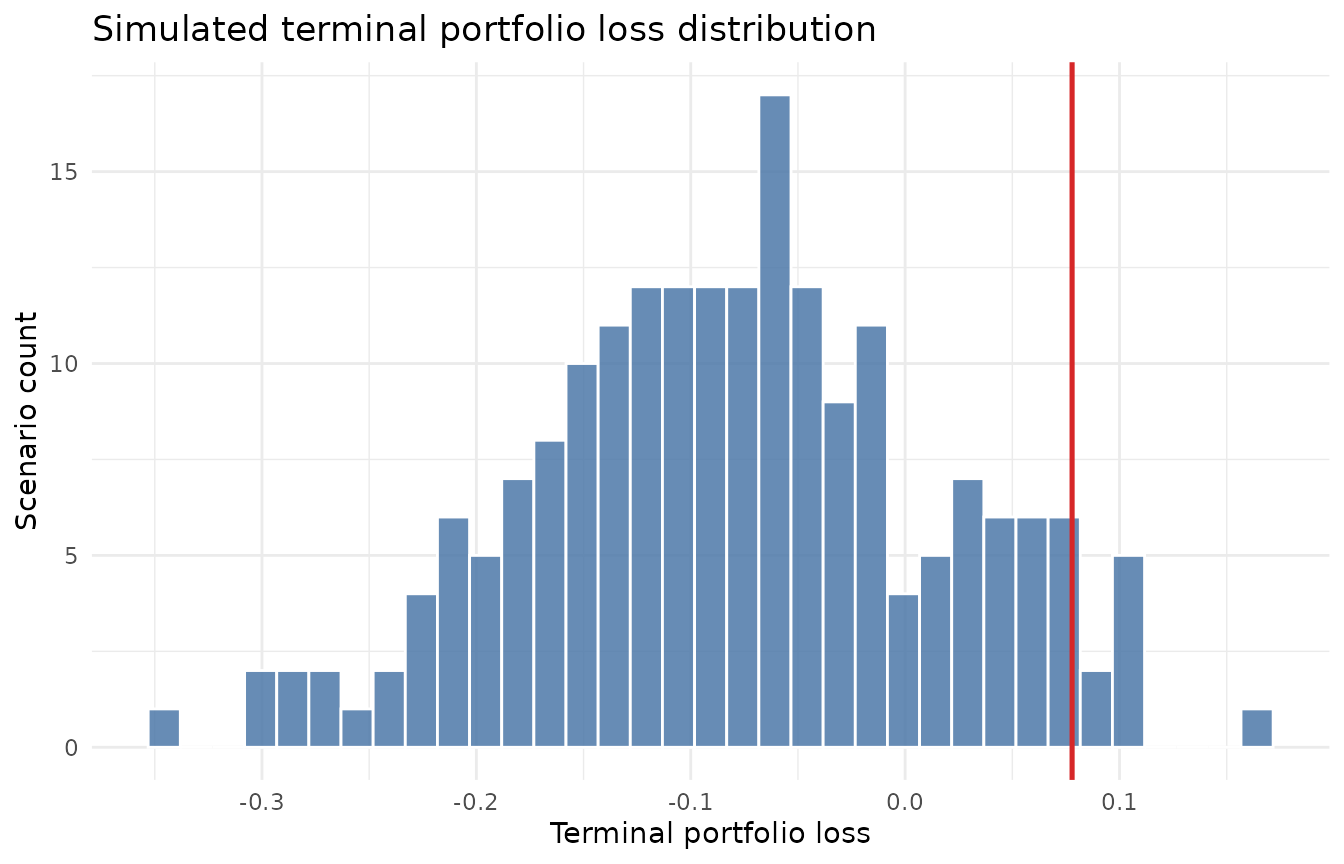
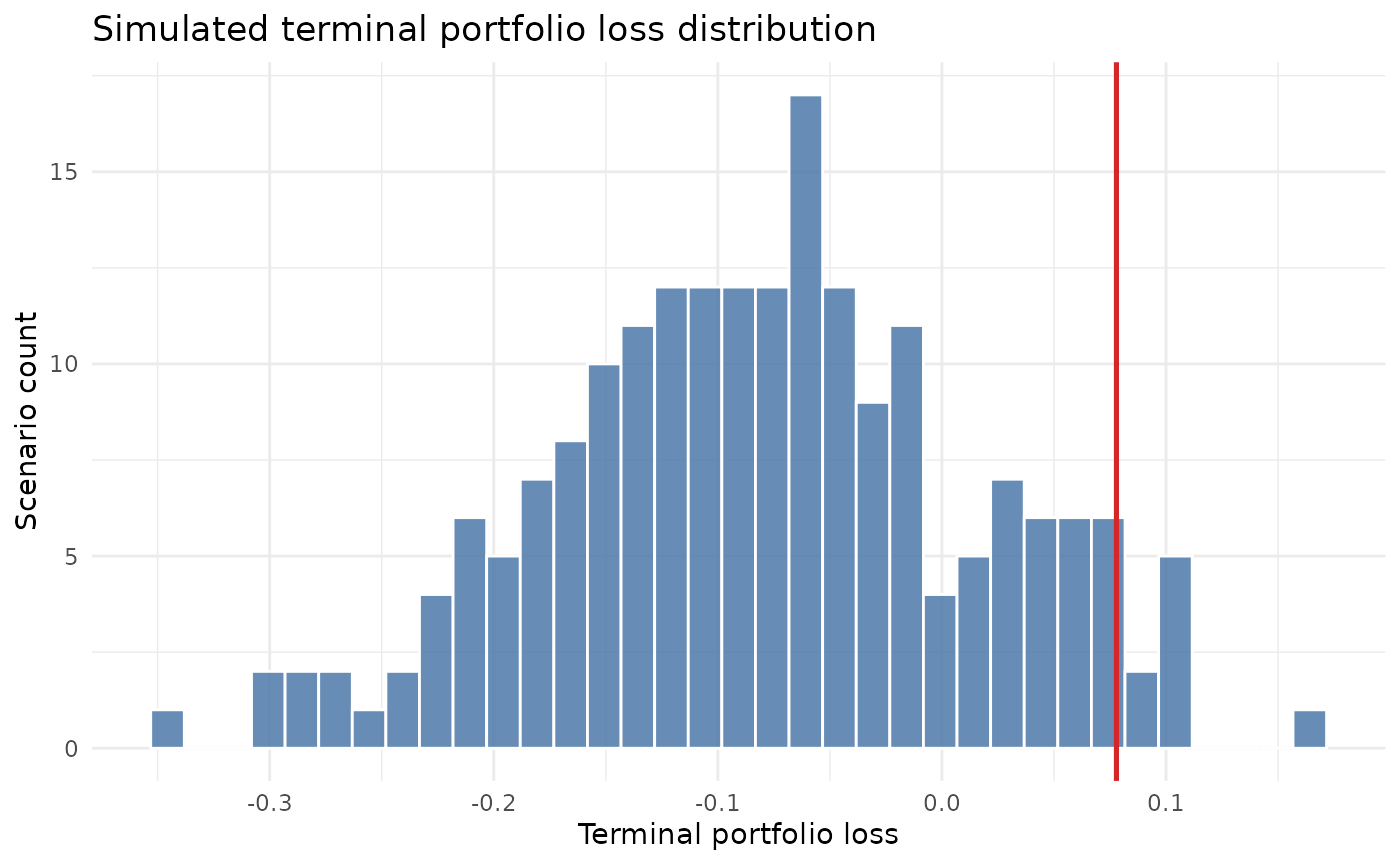
Deploying to gh-pages from @ qiyuan0215/scenario2risk@ad19e97039c35a2c992bc868272a370219786cac 🚀

diff --git a/articles/scenario2risk.html b/articles/scenario2risk.html
@@ -160,76 +160,21 @@ those three assets.</p>
 </ul>
 <p>Below is the structure of the built-in example data:</p>
 <div class="sourceCode" id="cb2"><pre class="downlit sourceCode r">
-<code class="sourceCode R"><span><span class="fu">knitr</span><span class="fu">::</span><span class="fu"><a href="https://rdrr.io/pkg/knitr/man/kable.html" class="external-link">kable</a></span><span class="op">(</span><span class="fu">utils</span><span class="fu">::</span><span class="fu"><a href="https://rdrr.io/r/utils/head.html" class="external-link">head</a></span><span class="op">(</span><span class="va">demo_macro_data</span>, <span class="fl">3</span><span class="op">)</span>, digits <span class="op">=</span> <span class="fl">4</span><span class="op">)</span></span></code></pre></div>
-<table class="table">
-<colgroup>
-<col width="8%">
-<col width="8%">
-<col width="10%">
-<col width="8%">
-<col width="6%">
-<col width="5%">
-<col width="8%">
-<col width="8%">
-<col width="8%">
-<col width="14%">
-<col width="11%">
-</colgroup>
-<thead><tr class="header">
-<th align="left">date</th>
-<th align="right">term_spread</th>
-<th align="right">credit_spread</th>
-<th align="right">gs10_change</th>
-<th align="right">infl_yoy</th>
-<th align="right">unrate</th>
-<th align="right">indpro_yoy</th>
-<th align="right">payroll_yoy</th>
-<th align="right">housing_yoy</th>
-<th align="right">consumer_sentiment</th>
-<th align="right">real_short_rate</th>
-</tr></thead>
-<tbody>
-<tr class="odd">
-<td align="left">1991-01-01</td>
-<td align="right">0.0187</td>
-<td align="right">0.0141</td>
-<td align="right">0.0001</td>
-<td align="right">0.0565</td>
-<td align="right">0.064</td>
-<td align="right">-0.0096</td>
-<td align="right">-0.0013</td>
-<td align="right">-0.4855</td>
-<td align="right">66.8</td>
-<td align="right">0.0057</td>
-</tr>
-<tr class="even">
-<td align="left">1991-02-01</td>
-<td align="right">0.0191</td>
-<td align="right">0.0124</td>
-<td align="right">-0.0024</td>
-<td align="right">0.0531</td>
-<td align="right">0.066</td>
-<td align="right">-0.0258</td>
-<td align="right">-0.0064</td>
-<td align="right">-0.3285</td>
-<td align="right">70.4</td>
-<td align="right">0.0063</td>
-</tr>
-<tr class="odd">
-<td align="left">1991-03-01</td>
-<td align="right">0.0220</td>
-<td align="right">0.0116</td>
-<td align="right">0.0026</td>
-<td align="right">0.0482</td>
-<td align="right">0.068</td>
-<td align="right">-0.0362</td>
-<td align="right">-0.0098</td>
-<td align="right">-0.2855</td>
-<td align="right">87.7</td>
-<td align="right">0.0109</td>
-</tr>
-</tbody>
-</table>
+<code class="sourceCode R"><span><span class="fu"><a href="https://rdrr.io/r/utils/head.html" class="external-link">head</a></span><span class="op">(</span><span class="va">demo_macro_data</span><span class="op">)</span></span>
+<span><span class="co">#&gt;         date term_spread credit_spread gs10_change   infl_yoy unrate</span></span>
+<span><span class="co">#&gt; 1 1991-01-01      0.0187        0.0141      0.0001 0.05647059  0.064</span></span>
+<span><span class="co">#&gt; 2 1991-02-01      0.0191        0.0124     -0.0024 0.05312500  0.066</span></span>
+<span><span class="co">#&gt; 3 1991-03-01      0.0220        0.0116      0.0026 0.04821151  0.068</span></span>
+<span><span class="co">#&gt; 4 1991-04-01      0.0239        0.0108     -0.0007 0.04809930  0.067</span></span>
+<span><span class="co">#&gt; 5 1991-05-01      0.0261        0.0100      0.0003 0.05034857  0.069</span></span>
+<span><span class="co">#&gt; 6 1991-06-01      0.0271        0.0095      0.0021 0.04695920  0.069</span></span>
+<span><span class="co">#&gt;     indpro_yoy  payroll_yoy housing_yoy consumer_sentiment real_short_rate</span></span>
+<span><span class="co">#&gt; 1 -0.009614606 -0.001263783  -0.4854932               66.8     0.005729412</span></span>
+<span><span class="co">#&gt; 2 -0.025779584 -0.006405570  -0.3284621               70.4     0.006275000</span></span>
+<span><span class="co">#&gt; 3 -0.036186959 -0.009777453  -0.2854926               87.7     0.010888491</span></span>
+<span><span class="co">#&gt; 4 -0.031105502 -0.012072141  -0.1979167               81.8     0.008400698</span></span>
+<span><span class="co">#&gt; 5 -0.024949781 -0.014340605  -0.1782178               78.3     0.004251433</span></span>
+<span><span class="co">#&gt; 6 -0.020371366 -0.013837051  -0.1197961               82.1     0.008740801</span></span></code></pre></div>
 </div>
 <div class="section level3">
 <h3 id="return_data">
@@ -245,35 +190,14 @@ those three assets.</p>
 <p>These returns should be aligned at the same monthly frequency as the
 macro predictors.</p>
 <div class="sourceCode" id="cb3"><pre class="downlit sourceCode r">
-<code class="sourceCode R"><span><span class="fu">knitr</span><span class="fu">::</span><span class="fu"><a href="https://rdrr.io/pkg/knitr/man/kable.html" class="external-link">kable</a></span><span class="op">(</span><span class="fu">utils</span><span class="fu">::</span><span class="fu"><a href="https://rdrr.io/r/utils/head.html" class="external-link">head</a></span><span class="op">(</span><span class="va">demo_return_data</span>, <span class="fl">3</span><span class="op">)</span>, digits <span class="op">=</span> <span class="fl">4</span><span class="op">)</span></span></code></pre></div>
-<table class="table">
-<thead><tr class="header">
-<th align="left">date</th>
-<th align="right">equity_return</th>
-<th align="right">bond_return</th>
-<th align="right">cash_return</th>
-</tr></thead>
-<tbody>
-<tr class="odd">
-<td align="left">1991-01-01</td>
-<td align="right">0.0521</td>
-<td align="right">-0.0148</td>
-<td align="right">0.0052</td>
-</tr>
-<tr class="even">
-<td align="left">1991-02-01</td>
-<td align="right">0.0767</td>
-<td align="right">-0.0062</td>
-<td align="right">0.0048</td>
-</tr>
-<tr class="odd">
-<td align="left">1991-03-01</td>
-<td align="right">0.0310</td>
-<td align="right">-0.0130</td>
-<td align="right">0.0044</td>
-</tr>
-</tbody>
-</table>
+<code class="sourceCode R"><span><span class="fu"><a href="https://rdrr.io/r/utils/head.html" class="external-link">head</a></span><span class="op">(</span><span class="va">demo_return_data</span><span class="op">)</span></span>
+<span><span class="co">#&gt;         date equity_return bond_return cash_return</span></span>
+<span><span class="co">#&gt; 1 1991-01-01        0.0521     -0.0148      0.0052</span></span>
+<span><span class="co">#&gt; 2 1991-02-01        0.0767     -0.0062      0.0048</span></span>
+<span><span class="co">#&gt; 3 1991-03-01        0.0310     -0.0130      0.0044</span></span>
+<span><span class="co">#&gt; 4 1991-04-01        0.0025      0.0149      0.0053</span></span>
+<span><span class="co">#&gt; 5 1991-05-01        0.0413     -0.0052      0.0047</span></span>
+<span><span class="co">#&gt; 6 1991-06-01       -0.0452      0.0108      0.0042</span></span></code></pre></div>
 </div>
 <div class="section level3">
 <h3 id="portfolio">
@@ -287,27 +211,11 @@ macro predictors.</p>
 <p>The package expects exactly the three supported asset names and a
 fully invested long-only portfolio.</p>
 <div class="sourceCode" id="cb4"><pre class="downlit sourceCode r">
-<code class="sourceCode R"><span><span class="fu">knitr</span><span class="fu">::</span><span class="fu"><a href="https://rdrr.io/pkg/knitr/man/kable.html" class="external-link">kable</a></span><span class="op">(</span><span class="va">demo_portfolio_weights</span>, digits <span class="op">=</span> <span class="fl">2</span><span class="op">)</span></span></code></pre></div>
-<table class="table">
-<thead><tr class="header">
-<th align="left">asset</th>
-<th align="right">weight</th>
-</tr></thead>
-<tbody>
-<tr class="odd">
-<td align="left">equity</td>
-<td align="right">0.55</td>
-</tr>
-<tr class="even">
-<td align="left">bond</td>
-<td align="right">0.35</td>
-</tr>
-<tr class="odd">
-<td align="left">cash</td>
-<td align="right">0.10</td>
-</tr>
-</tbody>
-</table>
+<code class="sourceCode R"><span><span class="va">demo_portfolio_weights</span></span>
+<span><span class="co">#&gt;    asset weight</span></span>
+<span><span class="co">#&gt; 1 equity   0.55</span></span>
+<span><span class="co">#&gt; 2   bond   0.35</span></span>
+<span><span class="co">#&gt; 3   cash   0.10</span></span></code></pre></div>
 </div>
 </div>
 <div class="section level2">
@@ -356,7 +264,7 @@ components.</li>
 <code>risk_summary</code>: a one-row table of risk metrics</li>
 <li>
 <code>loss_distribution</code>: one simulated terminal loss per
-scenari</li>
+scenario</li>
 </ul>
 <p>Printing the returned object only gives us a risk summary.</p>
 <p>The <code><a href="../reference/portfolio_risk.html">portfolio_risk()</a></code> summary contains:</p>
@@ -378,7 +286,8 @@ tail of the simulated loss distribution.</p>
 <p>We can also visualize the simulated loss distribution:</p>
 <div class="sourceCode" id="cb6"><pre class="downlit sourceCode r">
 <code class="sourceCode R"><span><span class="fu"><a href="../reference/plot_portfolio_risk.html">plot_portfolio_risk</a></span><span class="op">(</span><span class="va">risk</span><span class="op">)</span></span></code></pre></div>
-<p><img src="scenario2risk_files/figure-html/unnamed-chunk-6-1.png" class="r-plt" alt="" width="672"></p>
+<p align="center">
+<img src="../reference/figures/portfolio_risk.png" alt="Portfolio risk example plot" width="80%"></p>
 <p>In that plot, the histogram shows the simulated distribution of
 terminal portfolio loss, and the vertical red line marks the estimated
 95% VaR.</p>
@@ -432,7 +341,8 @@ benchmark</li>
 <p>We can visualize that comparison:</p>
 <div class="sourceCode" id="cb8"><pre class="downlit sourceCode r">
 <code class="sourceCode R"><span><span class="fu"><a href="../reference/plot_model_check.html">plot_model_check</a></span><span class="op">(</span><span class="va">check</span><span class="op">)</span></span></code></pre></div>
-<p><img src="scenario2risk_files/figure-html/unnamed-chunk-8-1.png" class="r-plt" alt="" width="672"></p>
+<p align="center">
+<img src="../reference/figures/VaR%20exceedance.png" alt="VaR exceedance example plot" width="80%"></p>
 <p>The dashed red line marks the expected 5% exceedance rate for a 95%
 VaR model.</p>
 </div>

diff --git a/articles/scenario2risk.md b/articles/scenario2risk.md
@@ -99,14 +99,22 @@ Below is the structure of the built-in example data:
 
 ``` r
 
-knitr::kable(utils::head(demo_macro_data, 3), digits = 4)
+head(demo_macro_data)
+#>         date term_spread credit_spread gs10_change   infl_yoy unrate
+#> 1 1991-01-01      0.0187        0.0141      0.0001 0.05647059  0.064
+#> 2 1991-02-01      0.0191        0.0124     -0.0024 0.05312500  0.066
+#> 3 1991-03-01      0.0220        0.0116      0.0026 0.04821151  0.068
+#> 4 1991-04-01      0.0239        0.0108     -0.0007 0.04809930  0.067
+#> 5 1991-05-01      0.0261        0.0100      0.0003 0.05034857  0.069
+#> 6 1991-06-01      0.0271        0.0095      0.0021 0.04695920  0.069
+#>     indpro_yoy  payroll_yoy housing_yoy consumer_sentiment real_short_rate
+#> 1 -0.009614606 -0.001263783  -0.4854932               66.8     0.005729412
+#> 2 -0.025779584 -0.006405570  -0.3284621               70.4     0.006275000
+#> 3 -0.036186959 -0.009777453  -0.2854926               87.7     0.010888491
+#> 4 -0.031105502 -0.012072141  -0.1979167               81.8     0.008400698
+#> 5 -0.024949781 -0.014340605  -0.1782178               78.3     0.004251433
+#> 6 -0.020371366 -0.013837051  -0.1197961               82.1     0.008740801
 ```
-
-| date | term_spread | credit_spread | gs10_change | infl_yoy | unrate | indpro_yoy | payroll_yoy | housing_yoy | consumer_sentiment | real_short_rate |
-|:---|---:|---:|---:|---:|---:|---:|---:|---:|---:|---:|
-| 1991-01-01 | 0.0187 | 0.0141 | 0.0001 | 0.0565 | 0.064 | -0.0096 | -0.0013 | -0.4855 | 66.8 | 0.0057 |
-| 1991-02-01 | 0.0191 | 0.0124 | -0.0024 | 0.0531 | 0.066 | -0.0258 | -0.0064 | -0.3285 | 70.4 | 0.0063 |
-| 1991-03-01 | 0.0220 | 0.0116 | 0.0026 | 0.0482 | 0.068 | -0.0362 | -0.0098 | -0.2855 | 87.7 | 0.0109 |
 
 ### `return_data`
 
@@ -122,14 +130,15 @@ macro predictors.
 
 ``` r
 
-knitr::kable(utils::head(demo_return_data, 3), digits = 4)
+head(demo_return_data)
+#>         date equity_return bond_return cash_return
+#> 1 1991-01-01        0.0521     -0.0148      0.0052
+#> 2 1991-02-01        0.0767     -0.0062      0.0048
+#> 3 1991-03-01        0.0310     -0.0130      0.0044
+#> 4 1991-04-01        0.0025      0.0149      0.0053
+#> 5 1991-05-01        0.0413     -0.0052      0.0047
+#> 6 1991-06-01       -0.0452      0.0108      0.0042
 ```
-
-| date       | equity_return | bond_return | cash_return |
-|:-----------|--------------:|------------:|------------:|
-| 1991-01-01 |        0.0521 |     -0.0148 |      0.0052 |
-| 1991-02-01 |        0.0767 |     -0.0062 |      0.0048 |
-| 1991-03-01 |        0.0310 |     -0.0130 |      0.0044 |
 
 ### `portfolio`
 
@@ -143,14 +152,12 @@ invested long-only portfolio.
 
 ``` r
 
-knitr::kable(demo_portfolio_weights, digits = 2)
+demo_portfolio_weights
+#>    asset weight
+#> 1 equity   0.55
+#> 2   bond   0.35
+#> 3   cash   0.10
 ```
-
-| asset  | weight |
-|:-------|-------:|
-| equity |   0.55 |
-| bond   |   0.35 |
-| cash   |   0.10 |
 
 ## Overall workflow
 
@@ -195,7 +202,7 @@ risk
 The returned object contains two main pieces:
 
 - `risk_summary`: a one-row table of risk metrics
-- `loss_distribution`: one simulated terminal loss per scenari
+- `loss_distribution`: one simulated terminal loss per scenario
 
 Printing the returned object only gives us a risk summary.
 
@@ -219,7 +226,7 @@ We can also visualize the simulated loss distribution:
 plot_portfolio_risk(risk)
 ```
 
-![](scenario2risk_files/figure-html/unnamed-chunk-6-1.png)
+![Portfolio risk example plot](../reference/figures/portfolio_risk.png)
 
 In that plot, the histogram shows the simulated distribution of terminal
 portfolio loss, and the vertical red line marks the estimated 95% VaR.
@@ -277,7 +284,8 @@ We can visualize that comparison:
 plot_model_check(check)
 ```
 
-![](scenario2risk_files/figure-html/unnamed-chunk-8-1.png)
+![VaR exceedance example
+plot](../reference/figures/VaR%20exceedance.png)
 
 The dashed red line marks the expected 5% exceedance rate for a 95% VaR
 model.
